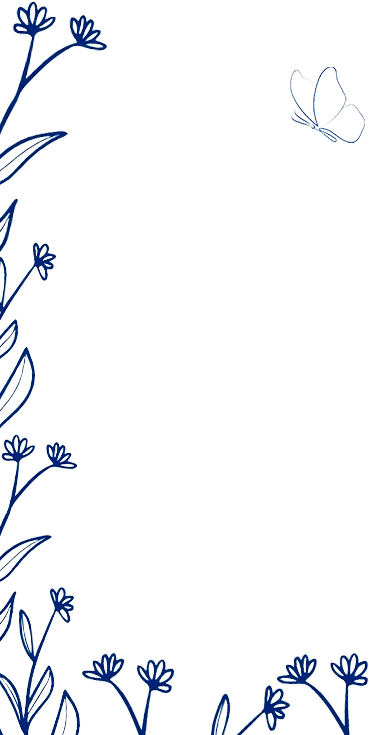
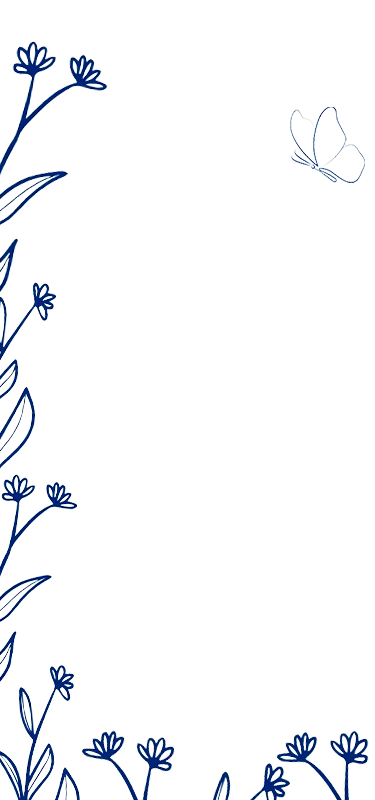
pagina2

diff --git a/style.css b/style.css
@@ -274,7 +274,7 @@ body {
     background-image: url(./img/fondoprueba2.png);
     background-repeat: no-repeat;
     width: 375px;
-    height: 700px;
+    height: 800px;
     display: flex;
     flex-direction: column;
     padding-top: 105px;
@@ -289,15 +289,3 @@ body {
     gap: 15px;
 }
 
-@media (min-height: 900px ) {
-    .container {
-        background-image: url(./img/fondoprueba1.png);
-        background-repeat: no-repeat;
-        width: 375px;
-        height: 700px;
-        display: flex;
-        flex-direction: column;
-        padding-top: 115px;
-        padding-left: 70px;
-    }
-}
